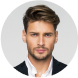
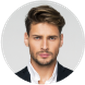
Update reviews images and footer links

diff --git a/client/src/components/Footer/Footer.tsx b/client/src/components/Footer/Footer.tsx
@@ -16,10 +16,10 @@ const Footer = () => {
                                  className="logo-image contacts-block__logo-image"/>
                         </a>
                         <div className="contacts contacts-block__contacts">
-                            <a href="mailto:fastfood_usa@gmail.com"
-                               className="contacts-block__link contacts-block__link_email">fastfood_usa@gmail.com</a>
-                            <a href="www.fastfood_usa.com"
-                               className="contacts-block__link contacts-block__link_site"> www.fastfood_usa.com</a>
+                            <a href="mailto:example_email@gmail.com"
+                               className="contacts-block__link contacts-block__link_email">example_email@gmail.com</a>
+                            <a href="/"
+                               className="contacts-block__link contacts-block__link_site">www.fastfood_usa.com</a>
                         </div>
                     </div>
                     <div className="footer-menu">
